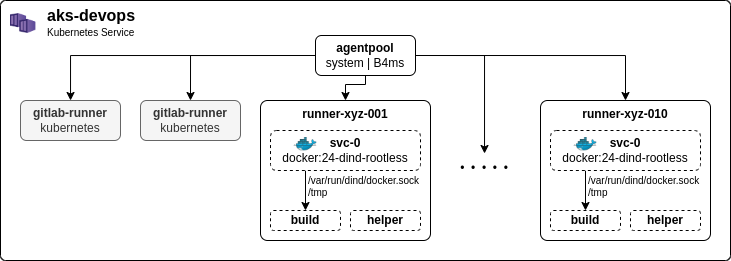
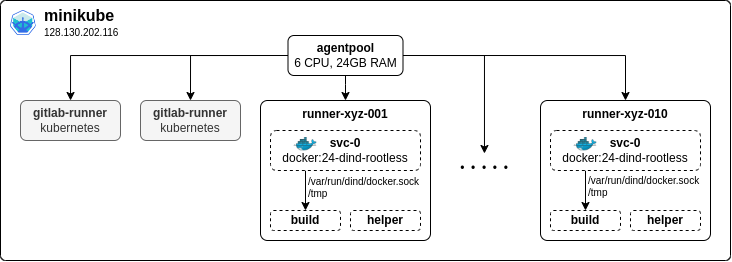
Added documentation

diff --git a/README.md b/README.md
@@ -23,7 +23,10 @@ make build
 
 ### CI/CD
 
-<img src="./.gitlab/gitlab-runner.png" alt="Gitlab Runner configuration in the Cluster" width="100%" /> 
+We get compute resources in-kind from [dataLAB](https://www.it.tuwien.ac.at/en/services/network-and-servers/datalab)
+to run our pipeline:
+
+<img src="./.gitlab/gitlab-runner.png" alt="Gitlab Runner configuration in the Cluster" width="100%" />
 
 Minikube cluster with 6vCPU and 28GB RAM. The CI pipeline is configured as follows in the CD:
 
@@ -54,14 +57,28 @@ For each job in the CI/CD pipeline, a pod with three containers is started:
 3. `svc-0` the Docker-in-Docker sidecar (rootless executed as user `rootless`/`1000`) exposing the Docker socket to the
    `build` container under `
 
-**Note** that only rootless Docker-in-Docker (dind) is allowed as service in the pipeline currently. For each job,
-a dind-sidecar container `svc-0` is started that exposes the Docker socket at `/var/run/dind/docker.sock` in the `build` container
-you can freely configure how you want.
+*Note.* Only rootless Docker-in-Docker (dind) is allowed as service in the pipeline currently. For each job, a 
+dind-sidecar container `svc-0` is started that exposes the Docker socket at `/var/run/dind/docker.sock` in the `build` 
+container you can freely configure how you want.
+
+The full CI/CD pipeline Helm chart is documented in 
+the [`fda-deployment`](https://gitlab.phaidra.org/fair-data-austria-db-repository/fda-deployment/-/tree/master/charts/dbrepo-devops)
+repository.
 
 ## Contribute
 
 Contributions are always welcome and encouraged, simply fork the repository and
 contact [Andreas Rauber](http://www.ifs.tuwien.ac.at/~andi/).
+
+# Acknowledgements
+
+We want to thank the following organizations:
+
+* Bundesministerium für Bildung, Wissenschaft und Forschung (BMBWF) for funding during 
+  the [call](https://www.bmbwf.gv.at/Themen/HS-Uni/Aktuelles/Ausschreibung--Digitale-und-soziale-Transformation-in-der-Hochschulbildung-.html)
+  "Digitale und soziale Transformation in der Hochschulbildung".
+* [TU.it](https://www.it.tuwien.ac.at/en/) for their continuous support in project work, funding and compute resources 
+  provided in-kind.
 
 # License
 
